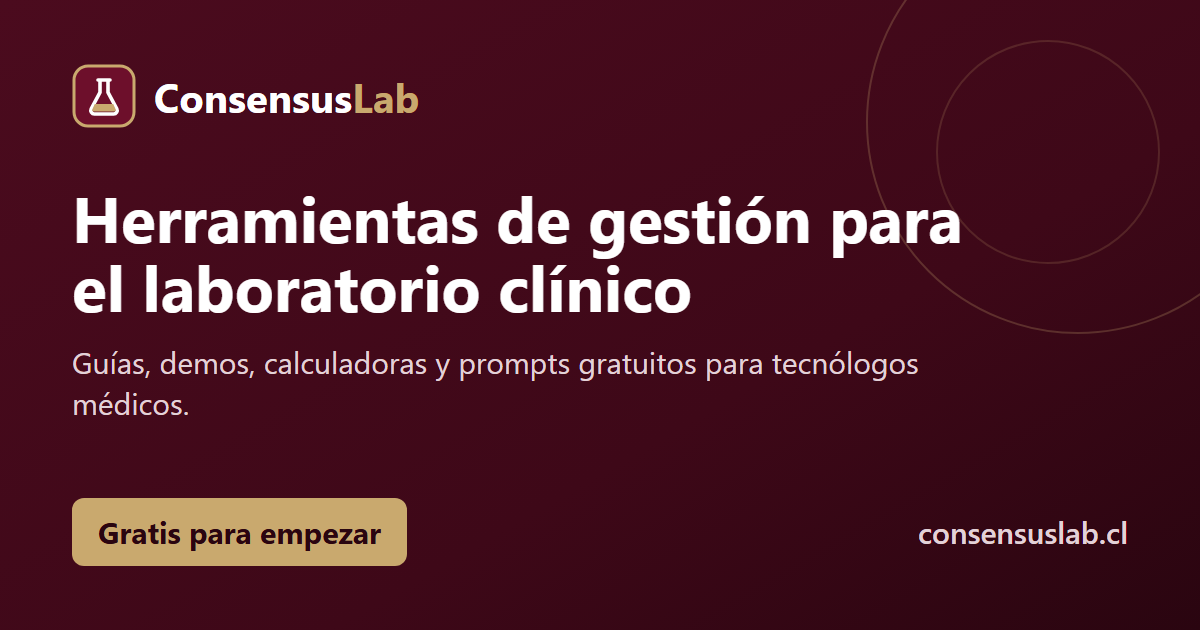
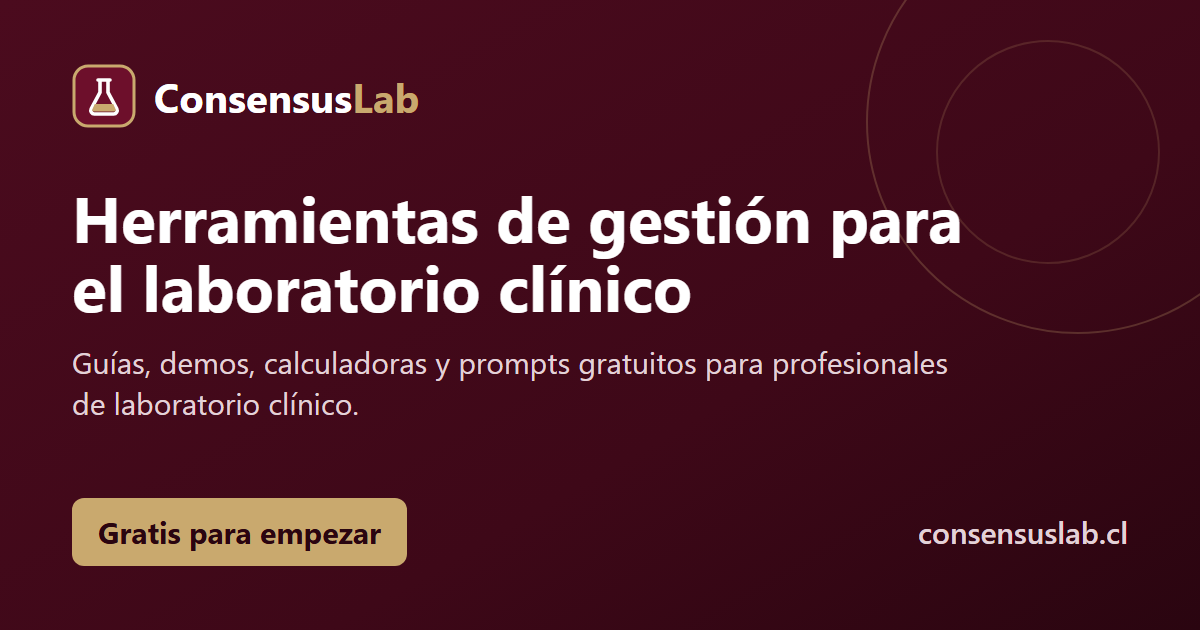
El sitio se dirige a los profesionales de laboratorio clínico (no solo a tecnólogos médicos)

Changed region(s): [[0.0617, 0.6032, 0.3083, 0.6635], [0.6475, 0.5429, 0.8017, 0.6032]]

diff --git a/LEEME.md b/LEEME.md
@@ -1,6 +1,6 @@
 # ConsensusLab
 
-Sitio de herramientas de gestión, calidad y coordinación para tecnólogos médicos (TM) de laboratorio clínico.
+Sitio de herramientas de gestión, calidad y coordinación para profesionales de laboratorio clínico.
 
 - **Sitio publicado:** https://consensuslab.cl/
 - **Tecnología:** [Astro](https://astro.build) (sitio estático) + GitHub Pages.
